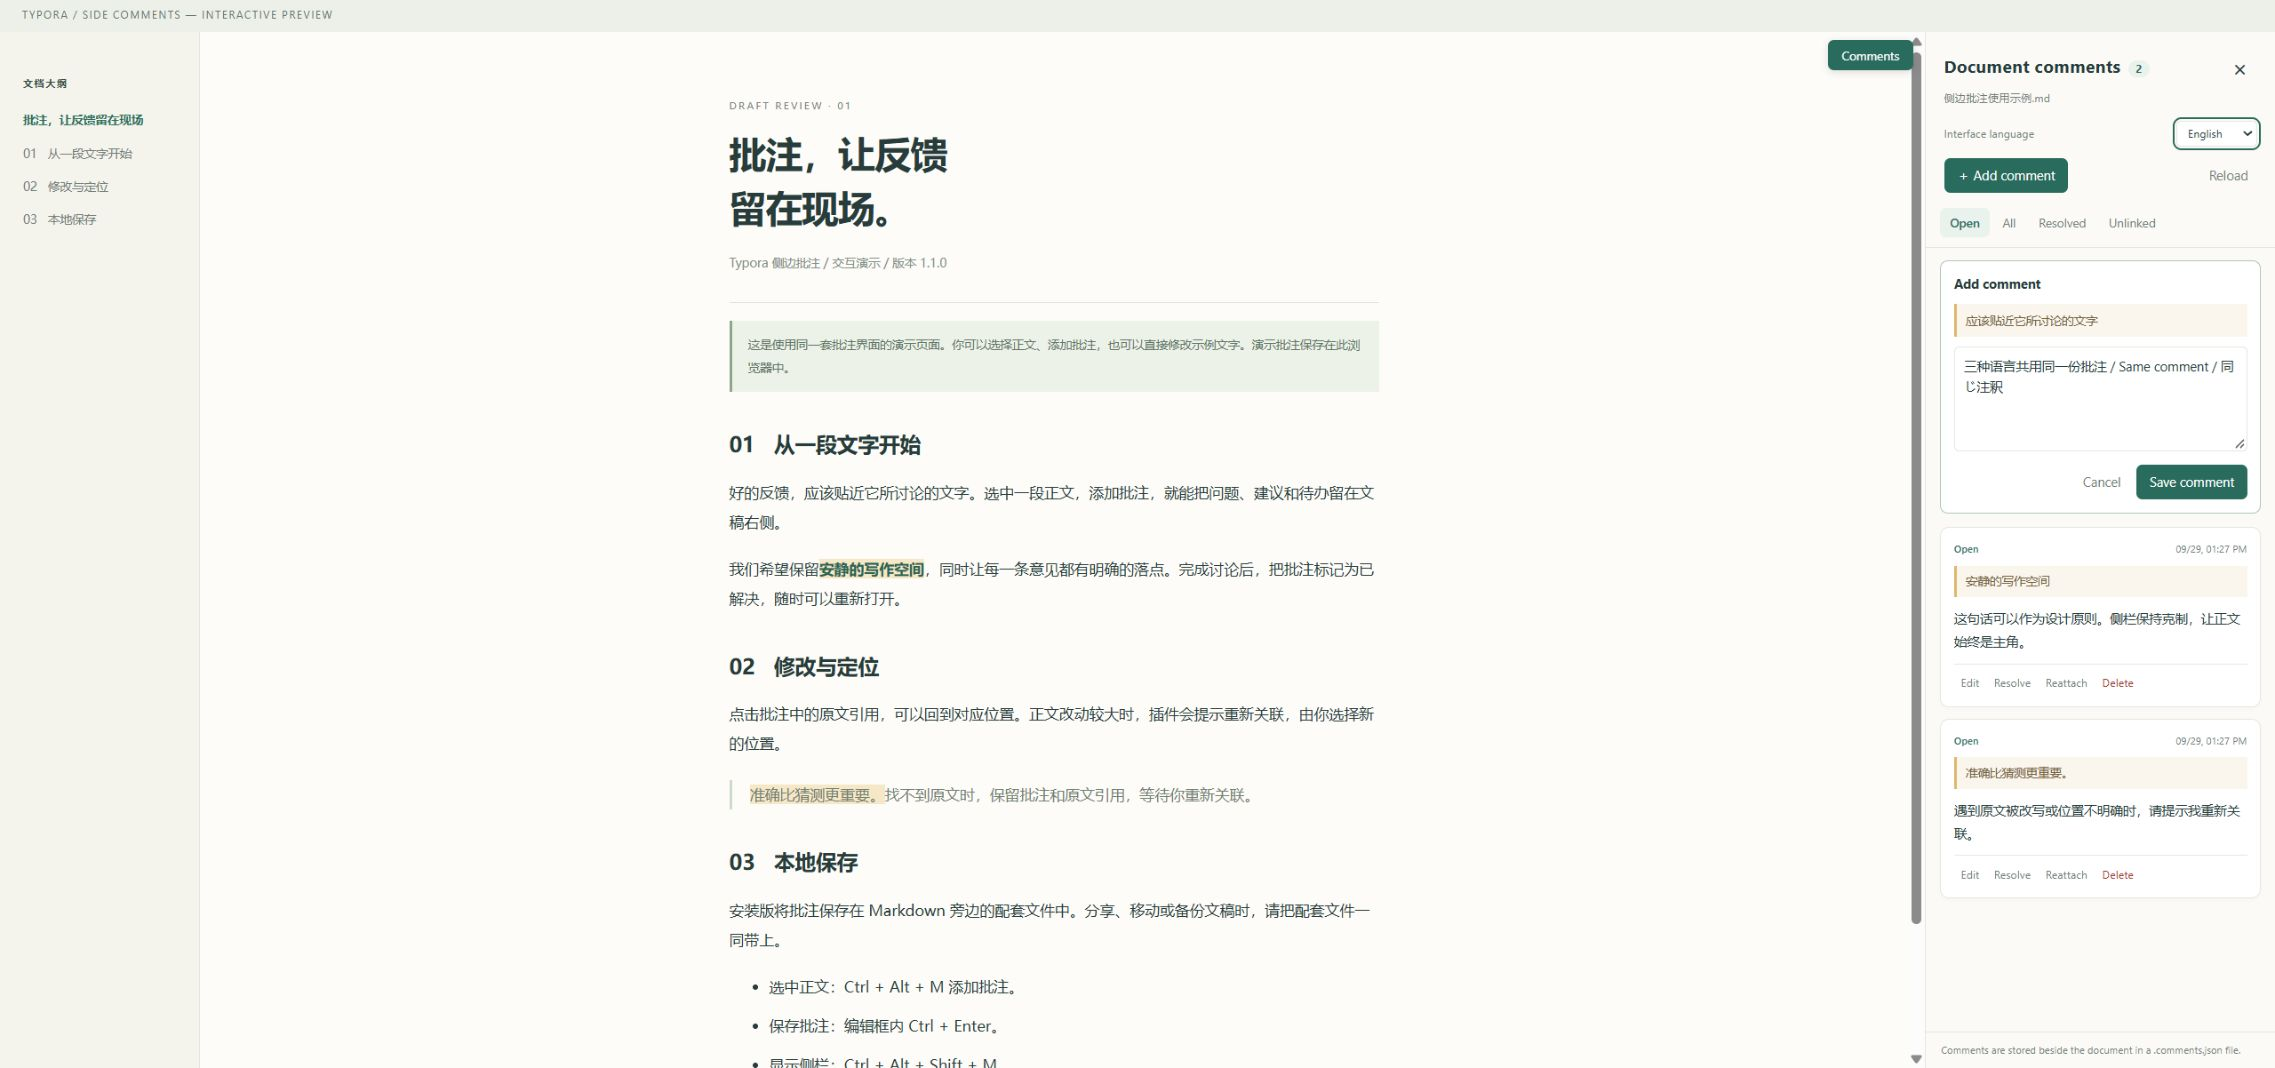
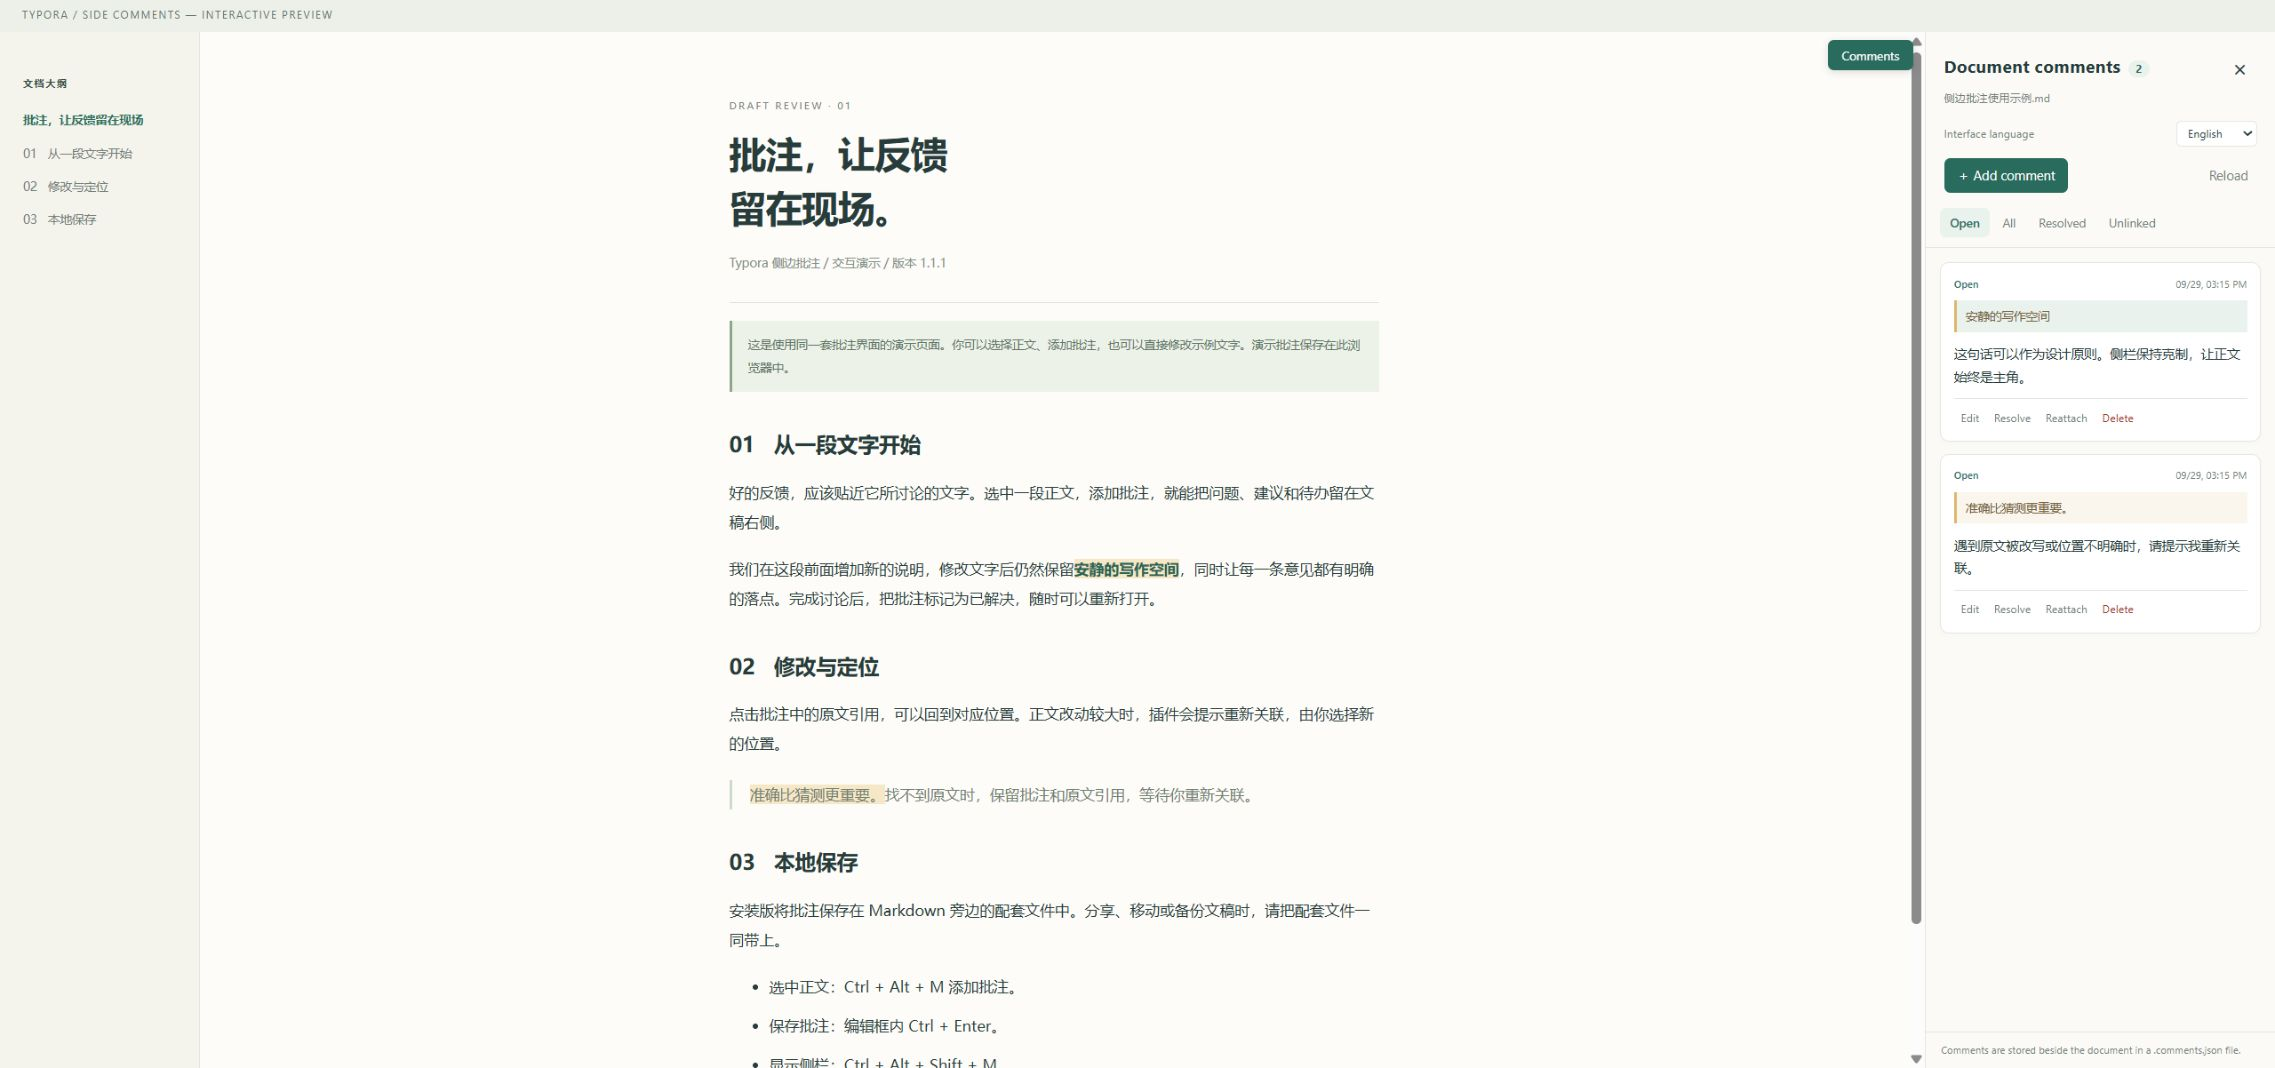
docs: package 1.1.1 and explain comment relocation
Update installer integrity hashes, demo and three-language documentation for unique-quote relocation. Describe conservative repeated-text handling and safe legacy anchor enrichment. Validation: 33 Node tests, 50 browser checks and 15 installer checks; actual Typora upgrade is still pending.

diff --git a/demo.html b/demo.html
@@ -2,7 +2,7 @@
 <html lang="zh-CN"><head><meta charset="utf-8"><meta name="viewport" content="width=device-width,initial-scale=1"><title>Typora 侧边批注 · 交互演示</title>
 <link rel="stylesheet" href="plugin/style.css"><style>
 *{box-sizing:border-box}body{margin:0;background:#fdfcf8;color:#273c3b;font-family:"Microsoft YaHei",sans-serif}header{height:32px;background:#edf0e9;padding:7px 22px;font:11px "Segoe UI",sans-serif;letter-spacing:.1em;color:#64736d}content{position:absolute;left:200px;right:0;top:32px;bottom:0;overflow:auto}nav{position:fixed;top:32px;bottom:0;left:0;width:200px;background:#f4f4ed;border-right:1px solid #e2e7dd;padding:44px 23px;font-size:12px;color:#738078}nav b{display:block;color:#344e43;letter-spacing:.13em;font-size:10px;margin-bottom:23px}nav a{display:block;margin:17px 0;color:inherit;text-decoration:none}nav a:first-of-type{color:#2d705c;font-weight:600}#write{max-width:780px;margin:auto;padding:64px 65px 120px;outline:0;font-size:15px;line-height:1.95}h1{font-size:37px;line-height:1.45;letter-spacing:-.02em;margin:12px 0 17px;font-weight:650}h2{font-size:21px;line-height:1.5;margin:37px 0 14px}p{margin:18px 0}strong{color:#2a6453}.eyebrow{font-size:10px;color:#7c877f;letter-spacing:.18em}.sub{color:#849087;font-size:12px;border-bottom:1px solid #e0e6db;padding-bottom:27px}.demo-note{font-size:12px;background:#edf2e9;border-left:3px solid #8ba68c;padding:12px 16px;color:#5f7667}blockquote{border-left:3px solid #cfdbca;margin:22px 0;padding:0 18px;color:#718071}li{margin:10px 0}.md-meta{display:none}@media(max-width:1000px){nav{display:none}content{left:0}#write{padding:65px 35px}}@media(prefers-color-scheme:dark){body{background:#1e2525;color:#dce6df}header,nav{background:#26312c;color:#a1b2a6;border-color:#3c4b41}strong{color:#90cfb1}.demo-note{background:#2c3f33;color:#b1cbb6}}
-</style></head><body><header>TYPORA / SIDE COMMENTS — INTERACTIVE PREVIEW</header><nav><b>文档大纲</b><a href="#intro">批注，让反馈留在现场</a><a href="#workflow">01 &nbsp; 从一段文字开始</a><a href="#safe">02 &nbsp; 修改与定位</a><a href="#local">03 &nbsp; 本地保存</a></nav><content><article id="write" contenteditable="true" spellcheck="false"><div class="eyebrow" contenteditable="false">DRAFT REVIEW · 01</div><h1 id="intro">批注，让反馈<br>留在现场。</h1><div class="sub" contenteditable="false">Typora 侧边批注 / 交互演示 / 版本 1.1.0</div><p class="demo-note" contenteditable="false">这是使用同一套批注界面的演示页面。你可以选择正文、添加批注，也可以直接修改示例文字。演示批注保存在此浏览器中。</p><h2 id="workflow">01 &nbsp; 从一段文字开始</h2><p>好的反馈，应该贴近它所讨论的文字。选中一段正文，添加批注，就能把问题、建议和待办留在文稿右侧。</p><p>我们希望保留<span class="md-pair-s"><span class="md-meta md-before">**</span><strong>安静的写作空间</strong><span class="md-meta md-after">**</span></span>，同时让每一条意见都有明确的落点。完成讨论后，把批注标记为已解决，随时可以重新打开。</p><h2 id="safe">02 &nbsp; 修改与定位</h2><p>点击批注中的原文引用，可以回到对应位置。正文改动较大时，插件会提示重新关联，由你选择新的位置。</p><blockquote><p>准确比猜测更重要。找不到原文时，保留批注和原文引用，等待你重新关联。</p></blockquote><h2 id="local">03 &nbsp; 本地保存</h2><p>安装版将批注保存在 Markdown 旁边的配套文件中。分享、移动或备份文稿时，请把配套文件一同带上。</p><ul><li>选中正文：Ctrl + Alt + M 添加批注。</li><li>保存批注：编辑框内 Ctrl + Enter。</li><li>显示侧栏：Ctrl + Alt + Shift + M。</li></ul></article></content>
+</style></head><body><header>TYPORA / SIDE COMMENTS — INTERACTIVE PREVIEW</header><nav><b>文档大纲</b><a href="#intro">批注，让反馈留在现场</a><a href="#workflow">01 &nbsp; 从一段文字开始</a><a href="#safe">02 &nbsp; 修改与定位</a><a href="#local">03 &nbsp; 本地保存</a></nav><content><article id="write" contenteditable="true" spellcheck="false"><div class="eyebrow" contenteditable="false">DRAFT REVIEW · 01</div><h1 id="intro">批注，让反馈<br>留在现场。</h1><div class="sub" contenteditable="false">Typora 侧边批注 / 交互演示 / 版本 1.1.1</div><p class="demo-note" contenteditable="false">这是使用同一套批注界面的演示页面。你可以选择正文、添加批注，也可以直接修改示例文字。演示批注保存在此浏览器中。</p><h2 id="workflow">01 &nbsp; 从一段文字开始</h2><p>好的反馈，应该贴近它所讨论的文字。选中一段正文，添加批注，就能把问题、建议和待办留在文稿右侧。</p><p>我们希望保留<span class="md-pair-s"><span class="md-meta md-before">**</span><strong>安静的写作空间</strong><span class="md-meta md-after">**</span></span>，同时让每一条意见都有明确的落点。完成讨论后，把批注标记为已解决，随时可以重新打开。</p><h2 id="safe">02 &nbsp; 修改与定位</h2><p>点击批注中的原文引用，可以回到对应位置。正文改动较大时，插件会提示重新关联，由你选择新的位置。</p><blockquote><p>准确比猜测更重要。找不到原文时，保留批注和原文引用，等待你重新关联。</p></blockquote><h2 id="local">03 &nbsp; 本地保存</h2><p>安装版将批注保存在 Markdown 旁边的配套文件中。分享、移动或备份文稿时，请把配套文件一同带上。</p><ul><li>选中正文：Ctrl + Alt + M 添加批注。</li><li>保存批注：编辑框内 Ctrl + Enter。</li><li>显示侧栏：Ctrl + Alt + Shift + M。</li></ul></article></content>
 <script src="plugin/i18n.js"></script><script src="plugin/core.js"></script><script src="plugin/ui.js"></script><script>
 (async function () {
   const Core = TyporaSideCommentsCore;

diff --git a/README.en.md b/README.en.md
@@ -1,4 +1,4 @@
-# Typora Side Comments 1.1.0
+# Typora Side Comments 1.1.1
 
 [简体中文](README.md) | English | [日本語](README.ja.md)
 
@@ -16,7 +16,7 @@ Use **界面语言 / Interface language / 表示言語** at the top of the sideb
 
 Switching translates controls, notices, errors and date formatting while preserving the current draft, quote and save state. Document text, filenames and user comments are never translated. Installer console messages remain in English.
 
-To upgrade from 1.0.0, save your work, close Typora and run the new installer. The comment file format is unchanged. **1.1.0 has not yet been installed and verified inside Typora**; the actual-application observations below are from 1.0.0.
+To upgrade from 1.0.0, save your work, close Typora and run the new installer. The comment file format is unchanged. **1.1.1 has not yet been installed and verified inside Typora**; the actual-application observations below are from 1.0.0.
 
 ## Installation
 
@@ -77,9 +77,11 @@ Comments are written to local files without network uploads or changes to the Ma
 
 ## When the original text changes
 
-For an unchanged document, comments use their original positions. After the document changes, the plugin requires a unique, trustworthy match for the quoted text and its full stored context. If the context was already duplicated when the comment was created, subsequent document changes require manual reattachment. This avoids attaching a comment to another occurrence after one is deleted.
+**1.1.1 fixes lost links when text before an unchanged quote is edited and its offset shifts.** An unchanged document uses the original offset. After edits, the plugin first matches the quote and its full context. If the context also changed, a quote that occurred exactly once when the comment was created and still occurs exactly once can relocate automatically. Adding a heading, deleting paragraphs or editing nearby preceding text no longer detaches such a quote merely because its position moved. Relocation does not rewrite document text or comment bodies.
 
-This is conservative text matching, not a native editor range that follows every edit. Editing the annotated text or its nearby context, or changing paragraph structure, may mark a comment **Needs reattachment**. The comment itself is retained. Text matching cannot guarantee identity for all complex repetitions, moves, or rewrites. When unsure, check the quote and reattach manually.
+Originally repeated quotes still require full context. A duplicate becoming the sole remaining occurrence after deletion does not prove its identity. Deleted, rewritten or ambiguous quotes retain their comments and show **Needs reattachment**. The plugin does not select the nearest occurrence. Complex repetition, copying, moves and rewrites may still require manual review; text matching cannot guarantee identity after every possible edit.
+
+**Legacy comments:** 1.0.0/1.1.0 sidecars remain readable. The plugin calculates missing quote-uniqueness evidence only when the document fingerprint matches the original recorded document. Open any comment for editing and save it once, without changing its body, to persist evidence already verified in that file. Viewing alone does not rewrite the sidecar. If the document changed before upgrading and the full context no longer matches, the old sidecar lacks sufficient evidence: reattach that comment once. Current uniqueness is never treated as proof of original uniqueness.
 
 ## Recovery and uninstallation
 
@@ -103,8 +105,8 @@ Open `demo.html` in Chrome or Edge to try the same sidebar. Demo comments are st
 
 Recorded automated checks (results in simulated environments are distinct from testing inside Typora):
 
-- **1.1.0: 21 Node tests** (14 data/anchor tests and 7 language tests): translation coverage, locale matching, blocked storage, error mapping, date formatting and existing data checks.
-- **1.1.0: 41 browser checks:** three-language labels, preference persistence, drafts and caret, switching during saving, error retranslation, deletion confirmation, document switching, anchors, dates, a 360px viewport and simulated-host loading. A native language-menu interaction also confirmed retention of the selected quote.
+- **1.1.1: 33 Node tests** (14 data/anchor, 7 language and 12 relocation tests): translation coverage, locale matching, blocked storage, error mapping, date formatting and existing data checks.
+- **1.1.1: 50 browser checks:** offset shifts, nearby prefix edits, reopened anchors, legacy metadata, three-language labels, preference persistence, drafts and caret, switching during saving, error retranslation, deletion confirmation, document switching, anchors, dates, a 360px viewport and simulated-host loading. A native language-menu interaction also confirmed retention of the selected quote.
 - **1.0.0 historical record: 28 Chromium browser checks:** adding, reloading, editing, resolving, locating, reattaching, deleting, rendering HTML as text, retaining drafts on failure, switching documents during a save, A→B→A transitions, special selections, source mode, narrow windows, dark mode, printing, and loading/switching/teardown in a simulated host.
 - **15 installer/uninstaller checks** in isolated mock installation directories: dry run, repeated installation, preserving user modifications, cleanup after first-install failure, and rollback after failed upgrades. These ran with Windows PowerShell 5.1 and do not operate on the actual Typora installation.
 - **Verified in the actual application on 2026-09-24 (Windows Typora 1.14.10):** installation, sidebar display, and opening the comment editor with the button after selecting text, with the correct quote displayed. Saving, restoration after reopening, navigation, and shortcuts remain unverified in Typora. Other versions are unverified. Collaborative editing, reply threads, Word comment import/export, and including comments in PDF/Word exports are not provided.
@@ -112,7 +114,7 @@ Recorded automated checks (results in simulated environments are distinct from t
 Development checks require **Node.js 22 or later**, Windows PowerShell 5.1, and an installed Chrome browser. No npm packages are required.
 
 ```powershell
-node --test tests/core-storage.test.cjs tests/i18n.test.cjs
+node --test tests/core-storage.test.cjs tests/i18n.test.cjs tests/anchor-relocation.test.cjs
 node tests/browser.test.cjs
 powershell -NoProfile -ExecutionPolicy Bypass -File .\tests\installer.test.ps1
 ```
